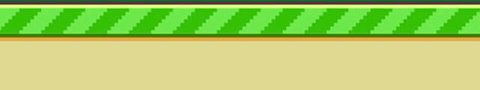
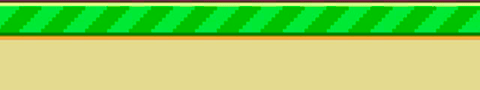
Добавлена земля

diff --git a/FlappyBird/background.cpp b/FlappyBird/background.cpp
@@ -1,16 +1,51 @@
 #include <SFML/Graphics.hpp>
 #include "background.h"
 
-static const sf::Vector2f WRAPPER_SIZE = { 480, 230 };
-static const sf::Vector2f WRAPPER_POS = { 0, 320 };
+static const sf::Vector2f GROUND_SIZE = { 480, 90 };
+static const sf::Vector2f GROUND_POS = { 0, 640 - GROUND_SIZE.y };
+static const sf::Vector2f GROUND_OFFSET = { 439, 0 };
+static const sf::Vector2f WRAPPER_SIZE = { 480, 125 };
+static const sf::Vector2f WRAPPER_POS = { 0, 640 - GROUND_SIZE.y - WRAPPER_SIZE.y };
 
-bool initializeBackground(Background &background)
+bool inititalizeWrapper(Background &background)
 {
 	if (!background.wrapperTexture.loadFromFile("resources/wrapper.png"))
-		return EXIT_FAILURE;
+		return false;
 	background.wrapper = sf::RectangleShape(WRAPPER_SIZE);
 	background.wrapper.setTexture(&background.wrapperTexture);
 	background.wrapper.setPosition(WRAPPER_POS);
+
+	return true;
+}
+
+bool inititalizeGround(Background &background)
+{
+	if (!background.groundTexture.loadFromFile("resources/ground.png"))
+		return EXIT_FAILURE;
+	for (int groundNumber = 0; groundNumber < 3; groundNumber++)
+	{
+		background.ground[groundNumber] = sf::RectangleShape(GROUND_SIZE);
+		background.ground[groundNumber].setTexture(&background.groundTexture);
+		background.ground[groundNumber].setPosition(GROUND_POS.x + GROUND_OFFSET.x * groundNumber, GROUND_POS.y);
+	}
+
+	return true;
+}
+
+bool initializeBackground(Background &background)
+{
+	if (!inititalizeWrapper(background) || !inititalizeGround(background))
+		return EXIT_FAILURE;
+	
+	return true;
+}
+
+bool drawGround(sf::RenderWindow &window, const sf::RectangleShape ground[])
+{
+	for (int groundNumber = 0; groundNumber < 3; groundNumber++)
+	{
+		window.draw(ground[groundNumber]);
+	}
 
 	return true;
 }

diff --git a/FlappyBird/main.cpp b/FlappyBird/main.cpp
@@ -29,6 +29,7 @@ void render(sf::RenderWindow &window, const Bird &bird, const Background &backgr
 {
 	window.clear(SKY_COLOR);
 	window.draw(background.wrapper);
+	drawGround(window, background.ground);
 	window.draw(bird.shape);
 	window.display();
 }
@@ -38,13 +39,17 @@ int main()
 	sf::RenderWindow window(sf::VideoMode(RESOLUTION_W, RESOLUTION_H), "Flappy Bird");
 
 	Bird bird;
-	initializeBird(bird);
+	if(!initializeBird(bird))
+		return(EXIT_FAILURE);
 	Background background;
-	initializeBackground(background);
+	if(!initializeBackground(background))
+		return EXIT_FAILURE;
 
 	while (window.isOpen())
 	{
 		handleEvents(window);
 		render(window, bird, background);
 	}
+
+	return 0;
 }

diff --git a/FlappyBird/bird.cpp b/FlappyBird/bird.cpp
@@ -6,10 +6,12 @@ static const float BIRD_SPEED = 20.f; // pixels per second.
 static const float BIRD_RADIUS = 20.f; // pixels
 static const sf::Vector2f BIRD_INITIAL_POSITION = { 50, 320 }; // pixels.
 
-void initializeBird(Bird &bird)
+bool initializeBird(Bird &bird)
 {
 	bird.direction = Direction::NONE;
 	bird.shape.setRadius(BIRD_RADIUS);
 	bird.shape.setFillColor(BIRD_COLOR);
 	bird.shape.setPosition(BIRD_INITIAL_POSITION);
+
+	return true;
 }

diff --git a/FlappyBird/background.h b/FlappyBird/background.h
@@ -9,4 +9,7 @@ struct Background
 	sf::Texture wrapperTexture;
 };
 
-bool initializeBackground(Background &baclground);
+bool initializeBackground(Background &background);
+bool inititalizeWrapper(Background &background);
+bool inititalizeGround(Background &background);
+bool drawGround(sf::RenderWindow &window, const sf::RectangleShape ground[]);

diff --git a/FlappyBird/bird.h b/FlappyBird/bird.h
@@ -13,4 +13,4 @@ struct Bird
 	Direction direction;
 };
 
-void initializeBird(Bird &bird);
+bool initializeBird(Bird &bird);
